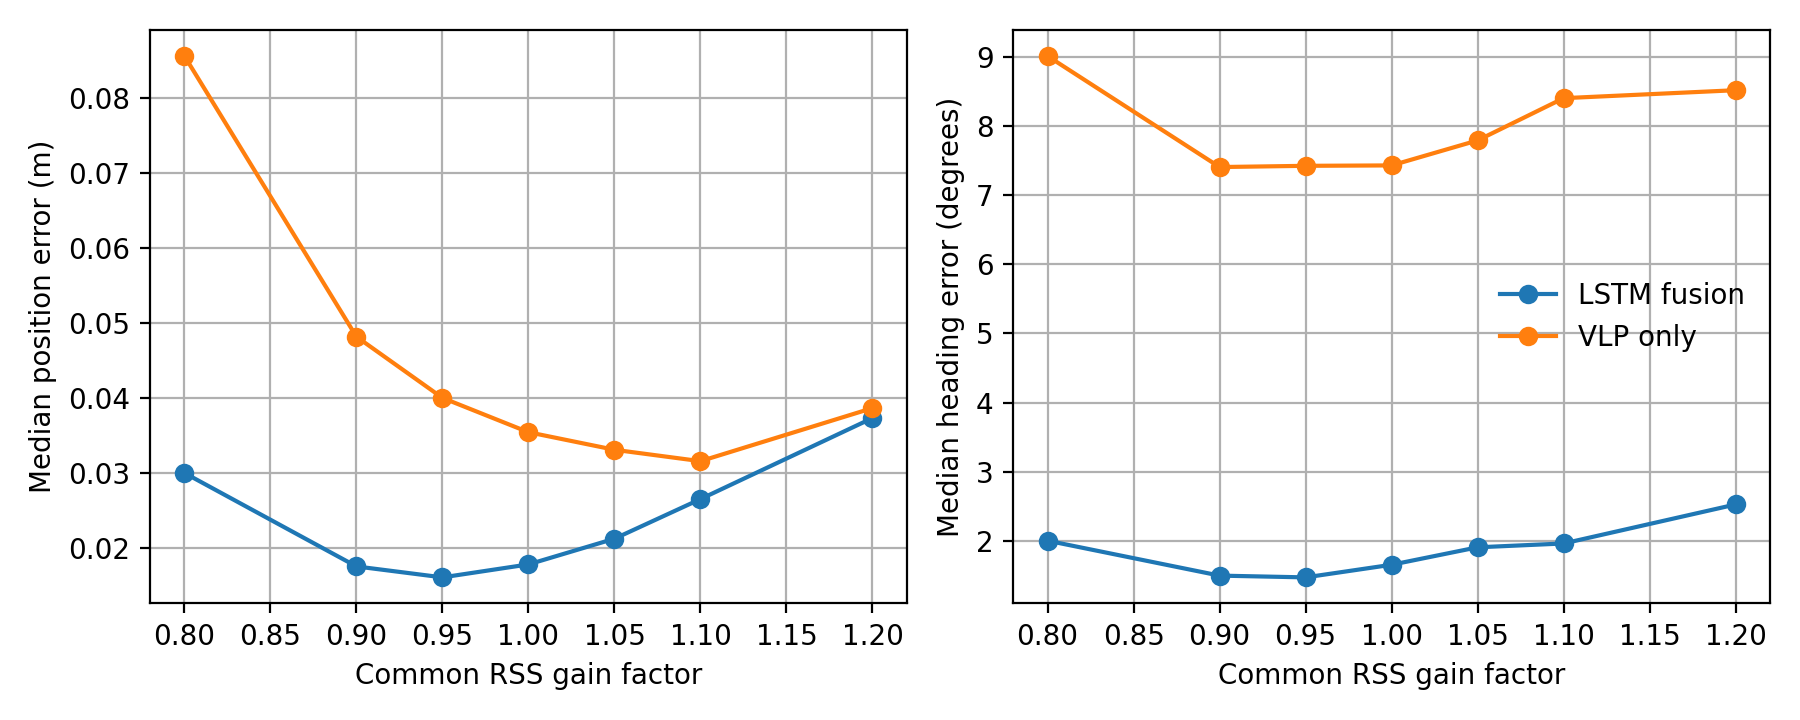
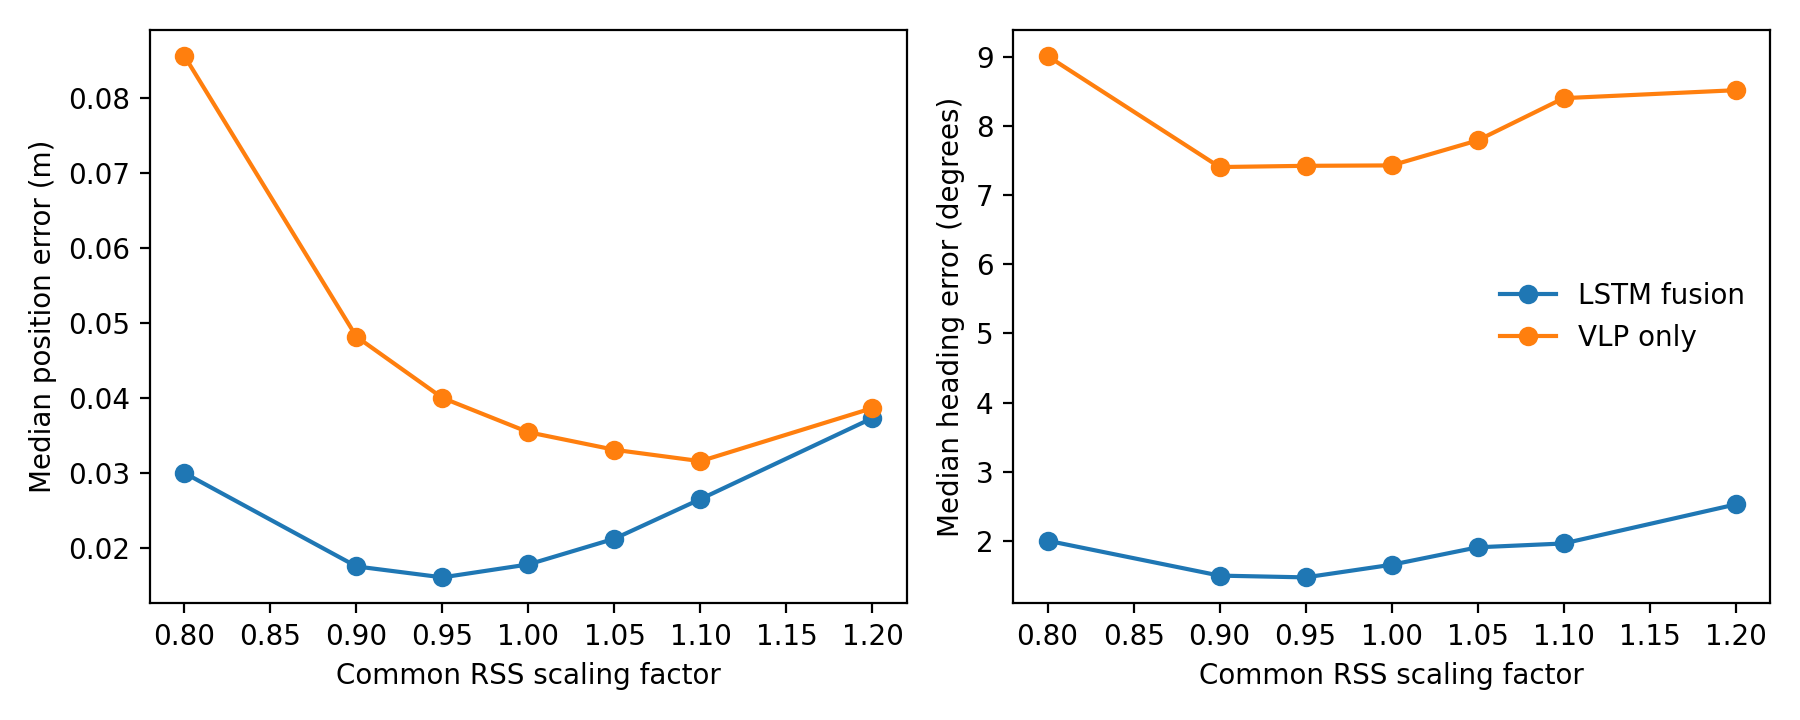
Clarify RSS-feature perturbations and publish corrected CDF figure

diff --git a/revision_analysis/reviewer_revision_work_packages.py b/revision_analysis/reviewer_revision_work_packages.py
@@ -914,8 +914,8 @@ def run_wp4_source_gain_sensitivity(robot_root: Path, output_root: Path, rnn_mod
         group = group.sort_values("gain_factor")
         axes[0].plot(group["gain_factor"], group["position_median_m"], marker="o", label=method)
         axes[1].plot(group["gain_factor"], group["heading_median_deg"], marker="o", label=method)
-    axes[0].set(xlabel="Common RSS gain factor", ylabel="Median position error (m)")
-    axes[1].set(xlabel="Common RSS gain factor", ylabel="Median heading error (degrees)")
+    axes[0].set(xlabel="Common RSS scaling factor", ylabel="Median position error (m)")
+    axes[1].set(xlabel="Common RSS scaling factor", ylabel="Median heading error (degrees)")
     axes[1].legend(frameon=False)
     fig.tight_layout()
     fig.savefig(output / "all_channel_gain_sensitivity.png", dpi=200)
@@ -923,6 +923,9 @@ def run_wp4_source_gain_sensitivity(robot_root: Path, output_root: Path, rnn_mod
 
     audit = {
         "raw_rss_available": True,
+        "rss_representation": "FFT peaks after per-capture mean removal and peak normalization",
+        "perturbation_domain": "extracted RSS features before fingerprint standardization",
+        "interpretation": "feature sensitivity; not a physical gain or ambient-light experiment",
         "interim_columns": RSS_COLUMNS,
         "raw_waveform_available": "vlp_data" in frame.columns,
         "navigation_rows": len(frame),
@@ -938,13 +941,13 @@ def run_wp4_source_gain_sensitivity(robot_root: Path, output_root: Path, rnn_mod
         "encoder_alignment_patch": encoder_patch.tolist(),
     }
     _json_dump(output / "perturbation_specification.json", audit)
-    note = f"""# Raw RSS availability and scope (WP4; R2.5)
+    note = f"""# Extracted RSS availability and scope (WP4; R2.5)
 
-Held-out navigation dataset 10 contains finite FFT-peak amplitudes for all four carriers on all {len(frame)} retained movement cycles, as well as archived ADC waveforms. Re-running the saved fingerprint model from the stored four peaks reproduces the saved VLP positions to a maximum absolute coordinate difference of {reconstruction_difference:.3e} m.
+Navigation dataset 10 contains finite FFT-peak features for all four carriers on all {len(frame)} retained movement cycles, as well as archived ADC waveforms. Re-running the saved fingerprint model from the stored features reproduces the saved VLP positions to a maximum absolute coordinate difference of {reconstruction_difference:.3e} m.
 
-The offline analysis applies common receiver/source gain changes, one-carrier gain changes, and independent random multiplicative changes to the recorded FFT peaks before re-running the saved fingerprint model and LSTM. These perturbations characterize modulated-source/receiver-gain sensitivity only. They are not measurements of ambient illumination.
+The offline analysis applies common, single-carrier, and independent random multiplicative scaling to the extracted FFT-peak features before re-running the saved fingerprint model and LSTM. Capture normalization and FFT extraction precede the perturbations. Uniform scaling of a waveform cancels under peak normalization; changing one optical source can also alter normalization and the other features. These are therefore RSS-feature sensitivity tests, not physical source/receiver-gain or ambient-illumination experiments.
 
-The receiver subtracts the sample mean, applies a Hann window, and extracts peaks near 15, 17, 20, and 23 kHz. This rejects DC and attenuates low-frequency ambient variation while the analog front end remains linear. It does not establish immunity to increased shot noise, front-end saturation, or interference near a carrier. Controlled daylight, artificial-light, saturation, and near-carrier interference tests were not performed.
+The receiver subtracts the sample mean, divides by the centered capture's positive peak, applies a Hann window, and extracts FFT peaks near 15, 17, 20, and 23 kHz. Mean removal and analog high-pass filtering attenuate DC and low-frequency ambient components while the front end remains linear. They do not establish immunity to increased shot noise, front-end saturation, or interference near a carrier. Controlled daylight, artificial-light, saturation, and near-carrier interference tests were not performed.
 """
     (output / "rss_availability_and_scope.md").write_text(note)
     _json_dump(

diff --git a/revision_analysis/outputs/WP9_figure8/plot_final_segment_cdfs.py b/revision_analysis/outputs/WP9_figure8/plot_final_segment_cdfs.py
@@ -1,0 +1,67 @@
+"""Plot final-100-step error CDFs from the retained temporal-error CSV."""
+
+import argparse
+from pathlib import Path
+
+import matplotlib
+
+matplotlib.use("Agg")
+import matplotlib.pyplot as plt
+import numpy as np
+import pandas as pd
+
+
+SCENARIOS = {
+    "Held-out run": ("Offline", "#9467bd", "-"),
+    "Square": ("Square", "#1f77b4", "--"),
+    "Hourglass": ("Hourglass", "#2ca02c", "-."),
+    "Random": ("Random", "#ff7f0e", ":"),
+}
+METHODS = ["LSTM", "VLP", "Enc. Odom."]
+
+
+def main():
+    folder = Path(__file__).resolve().parent
+    parser = argparse.ArgumentParser(description=__doc__)
+    parser.add_argument("--source-csv", type=Path,
+                        default=folder / "figure8_source_data.csv")
+    parser.add_argument("--output", type=Path,
+                        default=folder / "final_segment_error_cdfs.png")
+    args = parser.parse_args()
+    data = pd.read_csv(args.source_csv)
+    fig, axes = plt.subplots(2, 3, figsize=(3.5, 2.7))
+    metrics = [("position_error_m", "(m)", 0.15),
+               ("heading_error_deg", "(deg)", 40)]
+    for col, method in enumerate(METHODS):
+        axes[0, col].set_title(method, fontsize=7)
+        for row, (metric, unit, maximum) in enumerate(metrics):
+            ax = axes[row, col]
+            for scenario, (label, color, style) in SCENARIOS.items():
+                series = data[(data.method == method) & (data.scenario == scenario)]
+                series = series.sort_values("step").tail(100)
+                if len(series) != 100:
+                    raise ValueError(f"Expected 100 final samples: {scenario}, {method}")
+                values = np.sort(series[metric].to_numpy())
+                ax.plot(values, np.arange(1, 101) / 100, color=color,
+                        linestyle=style, linewidth=0.8, label=label)
+            ax.set(xlim=(0, maximum), ylim=(0, 1), xlabel=unit)
+            if row == 0:
+                ax.set_xticks([0, 0.05, 0.10])
+            ax.xaxis.label.set_size(6.5)
+            ax.tick_params(labelsize=6)
+            ax.grid(True, alpha=0.25, linewidth=0.4)
+            if col == 0:
+                ax.set_ylabel("Cumulative fraction", fontsize=6.5)
+            else:
+                ax.tick_params(labelleft=False)
+    handles, labels = axes[0, 0].get_legend_handles_labels()
+    fig.legend(handles, labels, loc="lower center", ncol=4,
+               frameon=False, fontsize=6, columnspacing=1.0, handlelength=1.8)
+    fig.subplots_adjust(left=0.14, right=0.96, bottom=0.2, top=0.91,
+                        hspace=0.65, wspace=0.42)
+    fig.savefig(args.output, dpi=600, bbox_inches="tight", pad_inches=0.04)
+    plt.close(fig)
+
+
+if __name__ == "__main__":
+    main()

diff --git a/revision_analysis/outputs/WP4_source_gain_sensitivity/plot_rss_sensitivity.py b/revision_analysis/outputs/WP4_source_gain_sensitivity/plot_rss_sensitivity.py
@@ -1,0 +1,41 @@
+"""Redraw the RSS-feature sensitivity plot from retained results."""
+
+import argparse
+from pathlib import Path
+
+import matplotlib
+
+matplotlib.use("Agg")
+import matplotlib.pyplot as plt
+import pandas as pd
+
+
+def main():
+    parser = argparse.ArgumentParser(description=__doc__)
+    folder = Path(__file__).resolve().parent
+    parser.add_argument("--source-csv", type=Path,
+                        default=folder / "systematic_gain_results.csv")
+    parser.add_argument("--output", type=Path,
+                        default=folder / "all_channel_gain_sensitivity.png")
+    args = parser.parse_args()
+    results = pd.read_csv(args.source_csv)
+    common = results[results.gain_target.isin(["none", "all LEDs"])]
+    fig, axes = plt.subplots(1, 2, figsize=(9.0, 3.6))
+    for method, group in common.groupby("method"):
+        group = group.sort_values("gain_factor")
+        axes[0].plot(group.gain_factor, group.position_median_m,
+                     marker="o", label=method)
+        axes[1].plot(group.gain_factor, group.heading_median_deg,
+                     marker="o", label=method)
+    axes[0].set(xlabel="Common RSS scaling factor",
+                ylabel="Median position error (m)")
+    axes[1].set(xlabel="Common RSS scaling factor",
+                ylabel="Median heading error (degrees)")
+    axes[1].legend(frameon=False)
+    fig.tight_layout()
+    fig.savefig(args.output, dpi=200)
+    plt.close(fig)
+
+
+if __name__ == "__main__":
+    main()

diff --git a/revision_analysis/outputs/WP4_source_gain_sensitivity/rss_availability_and_scope.md b/revision_analysis/outputs/WP4_source_gain_sensitivity/rss_availability_and_scope.md
@@ -1,7 +1,7 @@
-# Raw RSS availability and scope (WP4; R2.5)
+# Extracted RSS availability and scope (WP4; R2.5)
 
-Held-out navigation dataset 10 contains finite FFT-peak amplitudes for all four carriers on all 354 retained movement cycles, as well as archived ADC waveforms. Re-running the saved fingerprint model from the stored four peaks reproduces the saved VLP positions to a maximum absolute coordinate difference of 1.657e-07 m.
+Navigation dataset 10 contains finite FFT-peak features for all four carriers on all 354 retained movement cycles, as well as archived ADC waveforms. Re-running the saved fingerprint model from the stored features reproduces the saved VLP positions to a maximum absolute coordinate difference of 1.657e-07 m.
 
-The offline analysis applies common receiver/source gain changes, one-carrier gain changes, and independent random multiplicative changes to the recorded FFT peaks before re-running the saved fingerprint model and LSTM. These perturbations characterize modulated-source/receiver-gain sensitivity only. They are not measurements of ambient illumination.
+The offline analysis applies common, single-carrier, and independent random multiplicative scaling to the extracted FFT-peak features before re-running the saved fingerprint model and LSTM. Capture normalization and FFT extraction precede the perturbations. Uniform scaling of a waveform cancels under peak normalization; changing one optical source can also alter normalization and the other features. These are therefore RSS-feature sensitivity tests, not physical source/receiver-gain or ambient-illumination experiments.
 
-The receiver subtracts the sample mean, applies a Hann window, and extracts peaks near 15, 17, 20, and 23 kHz. This rejects DC and attenuates low-frequency ambient variation while the analog front end remains linear. It does not establish immunity to increased shot noise, front-end saturation, or interference near a carrier. Controlled daylight, artificial-light, saturation, and near-carrier interference tests were not performed.
+The receiver subtracts the sample mean, divides by the centered capture's positive peak, applies a Hann window, and extracts FFT peaks near 15, 17, 20, and 23 kHz. Mean removal and analog high-pass filtering attenuate DC and low-frequency ambient components while the front end remains linear. They do not establish immunity to increased shot noise, front-end saturation, or interference near a carrier. Controlled daylight, artificial-light, saturation, and near-carrier interference tests were not performed.

diff --git a/revision_analysis/README.md b/revision_analysis/README.md
@@ -24,6 +24,16 @@ still requires that checkout and its environment. The equivalent recorded datase
 and saved models are in this repository. The retained traces and summaries can be
 checked directly here with `verify_headline_results.py`.
 
+WP4 scales extracted RSS features after waveform normalization and FFT. Its
+results describe feature sensitivity, rather than physical source/receiver gain
+or ambient-light robustness. Uniform waveform scaling cancels during capture
+normalization. The updated scope note explains this distinction; its numerical
+results are unchanged. To redraw the common-scaling figure from its retained CSV:
+
+```bash
+python revision_analysis/outputs/WP4_source_gain_sensitivity/plot_rss_sensitivity.py
+```
+
 ## Verify headline statistics
 
 The following command independently recomputes the principal WP1, WP2, WP3, WP5,
@@ -42,6 +52,13 @@ python revision_analysis/verify_headline_results.py \
 python revision_analysis/outputs/WP9_figure8/plot_figure8.py \
   --source-csv revision_analysis/outputs/WP9_figure8/figure8_source_data.csv \
   --output-dir revision_analysis/outputs/WP9_figure8
+```
+
+The final-100-step CDF comparison uses the same retained errors and explicitly
+labels the offline evaluation:
+
+```bash
+python revision_analysis/outputs/WP9_figure8/plot_final_segment_cdfs.py
 ```
 
 The prior-work table source and page-level primary-source audit are under
